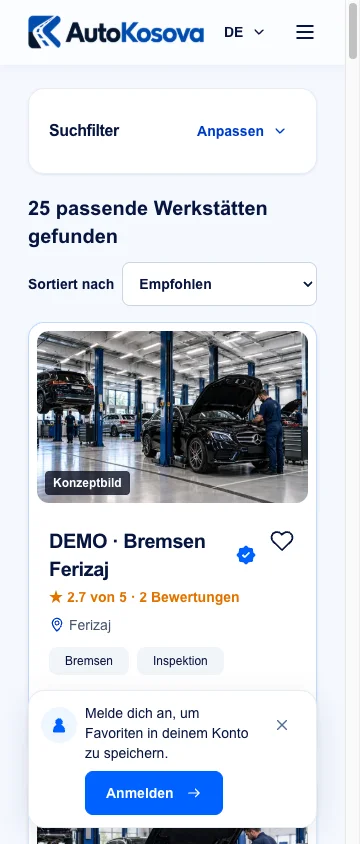
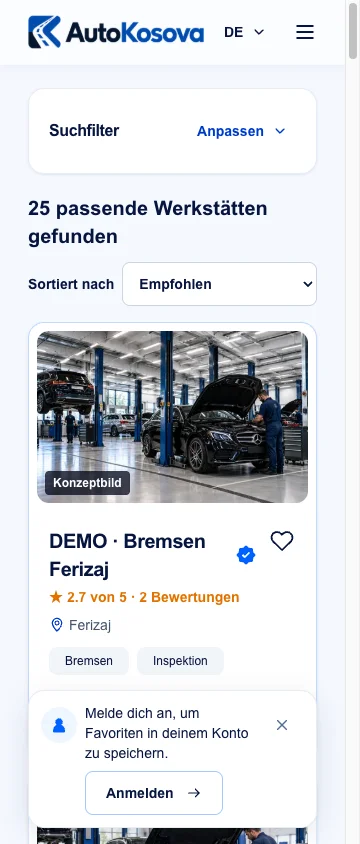
style: soften sign-in action in favorite toast (#43)

Changed region(s): [[0.2139, 0.8934, 0.6417, 0.9858]]

diff --git a/src/app/search-handoff.component.ts b/src/app/search-handoff.component.ts
@@ -491,7 +491,7 @@ interface Area {
               {{ ui('favorites.' + message) }}
             </p>
             @if (message === 'signIn') {
-              <a [href]="favoriteLoginUrl()" appButton="primary" size="compact" class="mt-2"
+              <a [href]="favoriteLoginUrl()" appButton="outline" size="compact" class="mt-2"
                 >{{ ui('favorites.login') }}<app-icon name="arrow" class="size-4"
               /></a>
             }
